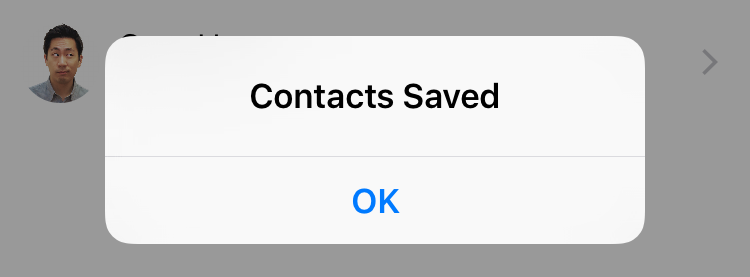
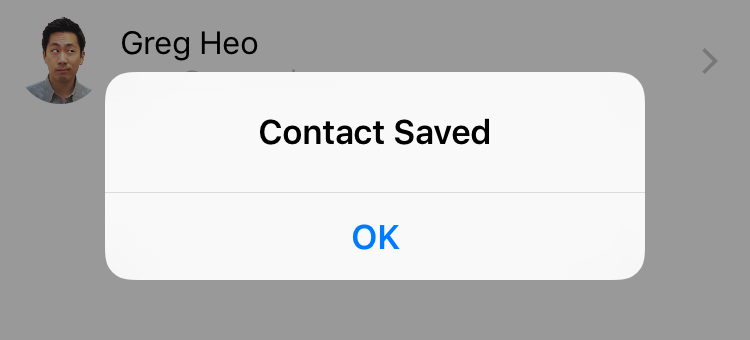
Changed "Contacts Saved" to "Contact Saved"
This change also required an updated image, so that’s in there too.

@sammyd This is good to go!

diff --git a/contacts/projects/final/RWConnect/RWConnect/FriendsViewController.swift b/contacts/projects/final/RWConnect/RWConnect/FriendsViewController.swift
@@ -85,7 +85,7 @@ class FriendsViewController: UITableViewController {
       try contactStore.executeSaveRequest(saveRequest)
       // Show success alert
       dispatch_async(dispatch_get_main_queue()){
-        let successAlert = UIAlertController(title: "Contacts Saved", message: nil, preferredStyle: .Alert)
+        let successAlert = UIAlertController(title: "Contact Saved", message: nil, preferredStyle: .Alert)
         successAlert.addAction(UIAlertAction(title: "OK", style: .Cancel, handler: nil))
         self.presentViewController(successAlert, animated: true, completion: nil)
       }
